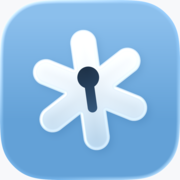
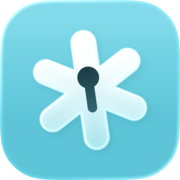
Glacier cyan brand and Apple silicon only.
Slinky moves from ice blue to glacier cyan so it holds its own spot next to
Harvous's blue in the Testament Made suite: icon fill #1ac8db, accent #0b7f8f
(white text about 4.7:1), backdrop, monograms, site mesh, icons and OG image.
Builds are now arm64 only; release.sh checks it and the cask requires arm64.

diff --git a/Slinky/Views/Components.swift b/Slinky/Views/Components.swift
@@ -4,15 +4,15 @@ import SwiftUI
 /// Provider initials on a soft tinted square. No brand logos, no network.
 /// A small Mac-app-icon tile for a service, project or account: a continuous squircle with a vibrant gradient,
 /// a soft top sheen, a hairline rim and a white letter. Colors come from a short curated palette that sits
-/// well next to Slinky's glacier blue. With no name yet, it shows Slinky's own asterisk on glacier blue.
+/// well next to Slinky's glacier cyan. With no name yet, it shows Slinky's own asterisk on glacier cyan.
 struct Monogram: View {
     var text: String
     var size: CGFloat = 30
 
     /// (top, bottom) gradient stops. Glacier first: it's Slinky's own color.
     private static let palette: [(Color, Color)] = [
-        (Color(red: 0.55, green: 0.80, blue: 0.96), Color(red: 0.18, green: 0.50, blue: 0.80)),   // glacier
-        (Color(red: 0.42, green: 0.88, blue: 0.86), Color(red: 0.05, green: 0.56, blue: 0.62)),   // teal
+        (Color(red: 0.50, green: 0.89, blue: 0.95), Color(red: 0.04, green: 0.56, blue: 0.66)),   // glacier cyan
+        (Color(red: 0.55, green: 0.76, blue: 0.98), Color(red: 0.16, green: 0.42, blue: 0.84)),   // sky
         (Color(red: 0.56, green: 0.92, blue: 0.66), Color(red: 0.12, green: 0.62, blue: 0.40)),   // mint
         (Color(red: 0.62, green: 0.66, blue: 1.00), Color(red: 0.30, green: 0.30, blue: 0.86)),   // indigo
         (Color(red: 0.80, green: 0.64, blue: 1.00), Color(red: 0.50, green: 0.28, blue: 0.86)),   // violet
@@ -168,22 +168,22 @@ struct KeyholeMark: View {
     var body: some View {
         ZStack {
             RoundedRectangle(cornerRadius: size * 0.225, style: .continuous)
-                .fill(LinearGradient(colors: [Color(red: 0.55, green: 0.80, blue: 0.95), Color(red: 0.20, green: 0.52, blue: 0.78)],
+                .fill(LinearGradient(colors: [Color(red: 0.52, green: 0.89, blue: 0.95), Color(red: 0.06, green: 0.62, blue: 0.72)],
                                      startPoint: .topLeading, endPoint: .bottomTrailing))
             // Only the asterisk turns. The keyhole always stays upright.
             AsteriskShape()
                 .stroke(Color.white, style: StrokeStyle(lineWidth: size * 0.146, lineCap: .round))
-                .shadow(color: Color(red: 0.05, green: 0.2, blue: 0.35).opacity(0.45), radius: size * 0.04, x: size * 0.012, y: size * 0.018)
+                .shadow(color: Color(red: 0.02, green: 0.22, blue: 0.27).opacity(0.45), radius: size * 0.04, x: size * 0.012, y: size * 0.018)
                 .padding(size * 0.21)
                 .rotationEffect(.degrees(-8 + spin))
             ZStack {
                 Capsule()
-                    .fill(LinearGradient(colors: [Color(red: 0.06, green: 0.16, blue: 0.27), Color(red: 0.14, green: 0.30, blue: 0.45)],
+                    .fill(LinearGradient(colors: [Color(red: 0.03, green: 0.16, blue: 0.19), Color(red: 0.07, green: 0.31, blue: 0.36)],
                                          startPoint: .top, endPoint: .bottom))
                     .frame(width: size * 0.053, height: size * 0.15)
                     .offset(y: size * 0.03)
                     .overlay(Circle()
-                        .fill(Color(red: 0.06, green: 0.16, blue: 0.27))
+                        .fill(Color(red: 0.03, green: 0.16, blue: 0.19))
                         .frame(width: size * 0.12)
                         .offset(y: -size * 0.07))
                     .scaleEffect(keyholeScale)

diff --git a/Slinky/Views/IceBackdrop.swift b/Slinky/Views/IceBackdrop.swift
@@ -1,7 +1,7 @@
 import AppKit
 import SwiftUI
 
-/// The Slinky ground: pale ice with a soft light from the upper left (smoky slate in dark mode).
+/// The Slinky ground: pale glacier ice with a soft light from the upper left (smoky slate in dark mode).
 /// Used behind full-window moments and the Library shelf, so glass has something to catch.
 struct IceBackdrop: View {
     @Environment(\.colorScheme) private var scheme
@@ -11,12 +11,12 @@ struct IceBackdrop: View {
         let dark = scheme == .dark
         ZStack {
             LinearGradient(
-                colors: dark ? [Color(red: 0.10, green: 0.13, blue: 0.16), Color(red: 0.03, green: 0.04, blue: 0.05)]
-                             : [Color(red: 0.97, green: 0.985, blue: 1.0), Color(red: 0.85, green: 0.91, blue: 0.955)],
+                colors: dark ? [Color(red: 0.09, green: 0.135, blue: 0.15), Color(red: 0.03, green: 0.045, blue: 0.05)]
+                             : [Color(red: 0.965, green: 0.99, blue: 0.995), Color(red: 0.84, green: 0.93, blue: 0.945)],
                 startPoint: .topLeading, endPoint: .bottomTrailing)
-            RadialGradient(colors: [dark ? Color(red: 0.36, green: 0.45, blue: 0.53).opacity(0.35) : .white.opacity(0.95), .clear],
+            RadialGradient(colors: [dark ? Color(red: 0.32, green: 0.47, blue: 0.51).opacity(0.35) : .white.opacity(0.95), .clear],
                            center: UnitPoint(x: 0.15, y: 0.05), startRadius: 0, endRadius: 520)
-            RadialGradient(colors: [Color(red: 0.53, green: 0.72, blue: 0.86).opacity(dark ? 0.16 : 0.35), .clear],
+            RadialGradient(colors: [Color(red: 0.45, green: 0.80, blue: 0.86).opacity(dark ? 0.16 : 0.35), .clear],
                            center: UnitPoint(x: 0.9, y: 1.0), startRadius: 0, endRadius: 560)
         }
         .opacity(intensity)
@@ -54,12 +54,12 @@ private struct BehindWindowBlur: NSViewRepresentable {
 extension ShapeStyle where Self == Color {
     static var paper: Color { Color(nsColor: NSColor(name: nil) { appearance in
         appearance.bestMatch(from: [.darkAqua, .aqua]) == .darkAqua
-            ? NSColor(red: 0.085, green: 0.095, blue: 0.11, alpha: 1)
-            : NSColor(red: 0.985, green: 0.99, blue: 1.0, alpha: 1)
+            ? NSColor(red: 0.08, green: 0.098, blue: 0.105, alpha: 1)
+            : NSColor(red: 0.983, green: 0.993, blue: 0.997, alpha: 1)
     }) }
 
-    /// Text on an accent-colored highlight. White in both modes: the accent (#4a7aa3, light and dark)
-    /// is deep enough for it, about 4.6:1. The old pale dark-mode accent wasn't.
+    /// Text on an accent-colored highlight. White in both modes: the accent (#0b7f8f glacier cyan, light and
+    /// dark) is deep enough for it, about 4.7:1. The old pale dark-mode accent wasn't.
     static var onAccent: Color { .white }
 
 }

diff --git a/site/src/styles/tokens.css b/site/src/styles/tokens.css
@@ -24,14 +24,14 @@
 
   /* Slinky's mesh (the "desktop wallpaper"). Five points, same format as the testamentmade app cards. */
   /* Mostly ice white, with hints of glacier blue. No purple: Slinky is ice. */
-  --c1: #8fc5ee;   /* glacier, softened */
-  --c2: #f7fbff;   /* ice, nearly white */
-  --c3: #b4dcf6;   /* sky */
-  --c4: #e3f1fc;   /* frost */
-  --c5: #eef7fe;   /* pale ice */
-  --brand: #4a7aa3; /* the app's accent: carries white text at about 4.6:1 */
-  --brand-ink: #1f5f93;
-  --glow: rgb(30 100 170 / 0.45);
+  --c1: #7fdbe8;   /* glacier cyan, softened */
+  --c2: #f6fdfe;   /* ice, nearly white */
+  --c3: #a8ebf2;   /* meltwater */
+  --c4: #def6f9;   /* frost */
+  --c5: #ecfafc;   /* pale ice */
+  --brand: #0b7f8f; /* the app's accent, glacier cyan: carries white text at about 4.7:1 */
+  --brand-ink: #0a6b78;
+  --glow: rgb(10 150 170 / 0.45);
 
   /* Inside the recreated app: Slinky's paper under values, and Tahoe-ish greys. */
   --app-paper: #fbfcfe;
@@ -53,13 +53,13 @@
     --shadow-lift: 0 2px 4px rgb(0 0 0 / 0.3), 0 18px 40px -18px rgb(0 0 0 / 0.7);
     color-scheme: dark;
 
-    --c1: #1d5a8f;
-    --c2: #0a1622;
-    --c3: #23608f;
-    --c4: #0f2333;
-    --c5: #0d1d2c;
-    --brand-ink: #9fd0f2;
-    --glow: rgb(20 90 160 / 0.55);
+    --c1: #0f6b78;
+    --c2: #071a1e;
+    --c3: #127480;
+    --c4: #0c262b;
+    --c5: #0b1f24;
+    --brand-ink: #8ee3ec;
+    --glow: rgb(10 140 160 / 0.55);
 
     --app-paper: #16171a;
     --app-text: #f5f5f7;

diff --git a/site/src/styles/site.css b/site/src/styles/site.css
@@ -59,7 +59,7 @@ p { margin: 0; text-wrap: pretty; }
 
 /* ---------- Desktops: little Mac screens where the mesh wallpaper lives ---------- */
 .desktop {
-  --menubar-hole: #eaf4fc;
+  --menubar-hole: #e6f7f9;
   position: relative; border-radius: 14px; overflow: hidden; isolation: isolate;
   box-shadow: 0 0 0 1px var(--hair), var(--shadow);
   background: var(--c5);
@@ -104,7 +104,7 @@ p { margin: 0; text-wrap: pretty; }
 }
 .desktop__stage { position: relative; display: grid; place-items: center; padding: 44px 36px 48px; }
 @media (max-width: 640px) { .desktop__stage { padding: 28px 14px 32px; } }
-@media (prefers-color-scheme: dark) { .desktop { --menubar-hole: #0d1d2c; } }
+@media (prefers-color-scheme: dark) { .desktop { --menubar-hole: #0b1f24; } }
 
 /* Plain family cards for everything that isn't on a desktop */
 .card-plain { background: var(--card); box-shadow: 0 0 0 1px var(--hair), var(--shadow); border-radius: 22px; }
@@ -121,7 +121,7 @@ p { margin: 0; text-wrap: pretty; }
 .dock.is-tracking .dock__app { transition: none; }
 .dock__app img {
   width: 54px; height: 54px; border-radius: 23%; transform-origin: 50% 100%;
-  box-shadow: 0 6px 14px -6px rgb(10 40 80 / 0.4);
+  box-shadow: 0 6px 14px -6px rgb(5 50 60 / 0.4);
   scale: var(--mag, 1); translate: 0 calc((var(--mag, 1) - 1) * -10px);
   transition: scale 0.12s linear, translate 0.12s linear;
 }

diff --git a/Casks/slinky.rb b/Casks/slinky.rb
@@ -7,6 +7,7 @@ cask "slinky" do
   desc "Keeps secrets out of files: API keys, .env variables and recovery codes"
   homepage "https://slinkyfiles.com"
 
+  depends_on arch: :arm64
   depends_on macos: :tahoe
 
   app "Slinky.app"

diff --git a/docs/DESIGN.md b/docs/DESIGN.md
@@ -6,7 +6,7 @@ Read this before any design work. Every visual decision should trace back to som
 1. **Intentional and tasteful over busy.** Each screen has one job and one primary action. When in doubt, remove.
 2. **Native Tahoe first.** Use system components (`NavigationSplitView`, inspector, toolbar, sheets, glass buttons) before inventing. Custom only where Slinky has something to say: the `.env` view, recovery-code chips, Quick Access, approval cards.
 3. **Glass on chrome, paper under values.** Liquid Glass belongs to sidebars, toolbars, floating panels, menu bar cards and toasts. Secret values always sit on opaque cool paper (`Color.paper`), in monospace, at 4.5:1 contrast or better. Never glass on glass.
-4. **Ice, not blue.** The brand is clear, glassy and white, with glacier/ice blue. Accent `#4a7aa3` in both light and dark mode (Derek, 2026-10-17), used once per view on the primary action. It's deep enough for white text (about 4.6:1), which macOS uses on sidebar selections, menus and prominent buttons. The old pale dark accent (`#a9c7dc`) failed that (Derek, 2026-10-17); ice stays in the icon, backdrop and tints. No saturated blue in UI chrome.
+4. **Glacier cyan.** The brand is clear, glassy and white, with glacier cyan (Derek, 2026-10-17). It replaced ice blue, which sat on the same hue as Harvous; the Testament Made suite already had blue (Harvous), indigo (Dinky), pink (Binky), amber (ReviseMy) and green (Koati), and cyan was the open spot that still says ice. Accent `#0b7f8f` in both light and dark mode, used once per view on the primary action. It's deep enough for white text (about 4.7:1), which macOS uses on sidebar selections, menus and prominent buttons. Cyan stays in the icon, backdrop and tints. No saturated color in UI chrome.
 5. **The family way of teaching.** Like Dinky and Binky, there's **no welcome screen and no wizard**. The app opens into itself. Empty states teach by doing ("No items yet. Add your first item with ⌘N."), and setup happens in context (the vault is created on the first save, and the Recovery Key appears right then as a sheet).
 6. **Calm motion.** Springs, not bounces for their own sake. Motion explains a change (things slink in and out). Everything honors Reduce Motion.
 7. **Plain, serious copy.** See `VOICE.md`. Clear and kind for everyone, non-technical first, no clever labels or wordplay in the app, no exclamation points, no fear.
@@ -35,10 +35,10 @@ Read this before any design work. Every visual decision should trace back to som
 | **macapp.supply: Trailback** | Clean white app UI; stacked declarative headlines ("Find it. Sort it. Tidy it.") | Site headline style |
 | **macapp.supply: Glance** | Minimal chrome, typography forward | Restraint in general |
 | **macapp.supply: Unwind** | "A reason for every suggestion" | Health view (v1.x) |
-| **Helium browser icon** (caution) | A white asterisk on deep blue. Ours must stay distinct: glacier blue (not indigo), tilt, keyhole. | App icon |
+| **Helium browser icon** (caution) | A white asterisk on deep blue. Ours must stay distinct: glacier cyan (not deep blue), tilt, keyhole. | App icon |
 
 ## Decisions already made
-- **Icon:** a glass asterisk with a rounded keyhole (K2, enlarged) on glacier blue. Real Liquid Glass via `Slinky/AppIcon.icon` (asterisk layer with glass on, keyhole layer on top, automatic gradient `#4DA3DC`). Sources and generators in `design/icon/`.
+- **Icon:** a glass asterisk with a rounded keyhole (K2, enlarged) on glacier cyan. Real Liquid Glass via `Slinky/AppIcon.icon` (asterisk layer with glass on, keyhole layer on top, automatic gradient `#1ac8db`; keyhole `#072a31`→`#11505b`). Was glacier blue `#4DA3DC` in 1.0.0. Sources and generators in `design/icon/`.
 - **Window:** transparent title bar, toolbar background hidden, no opaque title strip. The window itself is glass (`WindowGlass`, 2026-10-17): the desktop shows through, blurred, under a light ice tint. Screens don't paint their own backgrounds over it. Values still sit on opaque paper: the project `.env` is a paper sheet floating on the glass. The lock curtain stays opaque, so nothing shows through while it covers secrets. Reduce Transparency makes the glass solid (macOS does this).
 - **Sidebar toggle:** our own button in the content's part of the toolbar (`.navigation`), like Dinky, with the built-in one removed (`.toolbar(removing: .sidebarToggle)`). The built-in toggle sits in the sidebar's part of the toolbar, which is too narrow for it mid-animation, so macOS flashed the overflow » next to the lock switch. View › Show/Hide Sidebar (⌃⌘S) still works.
 - **Toolbar:** one control, the lock switch, pinned to the right end of the title bar as an `NSTitlebarAccessoryViewController` (`LockSwitchAccessory`), not a toolbar item, so it never slides into the overflow (») menu while the sidebar animates. It carries its own glass capsule. The switch is a small two-position switch (open lock | closed lock) whose knob sits on the current state. It's always there, on the lock screen too. Before anything is saved it sits on unlocked, and clicking it says "Slinky can lock once you've saved your first item."
@@ -55,7 +55,7 @@ Read this before any design work. Every visual decision should trace back to som
 - **Empty states:** `VaultIdleAnimation`, Slinky's sibling to Dinky's IdleAnimation. A secret rises from the bottom edge, its characters turn into dots, it slides into the icon, the keyhole closes, the asterisk turns, and the keyhole returns with a draw-on checkmark. It plays four examples, one of everything Slinky saves (an API key, a project variable where only the value after `=` is hidden, recovery codes, a recovery key), and ends, like Dinky, on a resting collection: the same glass pills, level, in a loose hand-placed scatter around the icon (not a grid or rows). Hover replays it; Reduce Motion shows only the resting collection. The keyhole never rotates: only the asterisk turns (60°, so it lands identical). Below it: a title, one line, one button. Nothing more.
 - **SF Symbol animations: only where something changes state.** `.replace` for swaps (Copy → checkmark, lock ↔ unlock), `.drawOn` for completion (the saved checkmark, a used code), `.pulse` while waiting for Touch ID. No bounces or wiggles on selection, detection, warnings or toasts: Derek found them too much (2026-10-16).
 - **Filled SF Symbols everywhere** (Derek, 2026-10-17): `.symbolVariant(.fill)` is set once at each root (main window, Settings, Help, menu bar, Quick Access), so every symbol uses its filled variant where one exists. Write the plain name in code; the root fills it.
-- **Monograms look like little Mac app icons:** a continuous squircle, a vibrant top-to-bottom gradient from a curated palette (glacier, teal, mint, indigo, violet, pink, coral, amber), a soft top sheen, a hairline rim and white initials. With no name yet, Slinky's asterisk on glacier. Examples in the app use "Slinky" as the project name.
+- **Monograms look like little Mac app icons:** a continuous squircle, a vibrant top-to-bottom gradient from a curated palette (glacier cyan, sky, mint, indigo, violet, pink, coral, amber), a soft top sheen, a hairline rim and white initials. With no name yet, Slinky's asterisk on glacier cyan. Examples in the app use "Slinky" as the project name.
 - **Success is green.** Checkmarks that confirm something worked (saved, copied, stored) use system green. The ice-blue accent stays for actions and selection. Toasts have three looks: success (green checkmark), information (gray info icon) and removed (gray trash icon, with Undo). Toasts center over the content column, not the whole window.
 - **Add Item** (`AddItemView.swift`, 2026-10-17): a floating glass panel (720 wide) over a soft dim, with a frosted layer behind it (`PanelBackdrop`), not a sheet. Never blur the window itself: it makes the layout jump under the toolbar. Raycast's one-field model, Apple Passwords' hide-by-default, and the empty-state pill motion.
   - Empty: one large field on paper ("Paste a key, recovery codes or .env lines", ⌘V keycap), plus "Or choose what you're adding": four equal tiles, each an icon, a name and one short description (two lines of text on purpose, never an accidental wrap), for typing something Slinky can't recognize.
@@ -82,7 +82,7 @@ Read this before any design work. Every visual decision should trace back to som
 ## Website (slinkyfiles.com, `site/`)
 - Astro on Cloudflare Pages, like heyderekj.com and testamentmade.com. Family type and motion: Figtree, paper/ink tokens, `--ease`, squircles.
 - **Desktops:** the page is the family's plain paper. The mesh wallpaper only lives inside rounded "Mac desktop" frames (`Desktop.astro`, with a menu bar: Slinky File Edit View Window Help, the Slinky menu bar icon and a clock), and the recreated app sits on them, like the app cards on testamentmade.com. Everything else (tiles, table, FAQ) is a plain family card.
-- **Wallpaper:** a CSS mesh (the testamentmade card recipe) inside each desktop. Mostly ice white with hints of glacier blue; never purple (Derek, 2026-10-17). Dark mode is deep glacier navy.
+- **Wallpaper:** a CSS mesh (the testamentmade card recipe) inside each desktop. Mostly ice white with hints of glacier cyan; never purple (Derek, 2026-10-17). Dark mode is deep glacier teal.
 - **Glass, the Tahoe way:** windows and sidebars are frosted material (blur 26 px, saturation 1.9, a light fill) with a 1 px specular rim that's brightest at the top left. Only small controls (the lock switch) are clear glass that bends at the rim, using Jhey Tompkins' SVG filter (codepen jh3y/EajLxJV, MIT) in Chromium; a lens that strong on a large surface pulls in pixels from outside the page. The wallpaper is a CSS mesh inside each desktop. Corners: desktops 14 px, windows 16 px. Only the hero desktop has the Mac menu bar. Things that float over page content (nav, Dock, toasts) use CSS blur (`.float-glass`).
 - **Navigation:** the site's own links in a glass capsule nav at the top. Along the bottom, a family Dock that behaves like the macOS Dock: Dinky, Binky and Slinky's icons on a glass shelf, a dot under the current app, magnification that follows the pointer's distance and pushes neighbours apart, the app's name alone in a small label above, and a launch bounce on click. Dinky and Binky use the same Dock.
 - **No screenshots:** the app is rebuilt in HTML with small demos (Add Item, a project's .env, recovery codes, Quick Access, the lock).

diff --git a/docs/plan.md b/docs/plan.md
@@ -59,7 +59,7 @@ Slinky should be the pleasant, HIG-native fix: a real Mac app, plus a `slinky` C
   - Stats line: "38 keys · 6 projects · 0 lying around"
 - **Avoid:** "military-grade", AES jargon in the UI (keep it on the How-it-works page), "credentials", "workflow".
 - **Icon:** the family recipe (a saturated gradient with a chunky white sticker object, heavy black outline, slight tilt). Here it's a coiled spring with one coil threaded through a key ring.
-  - **Brand (updated 2026-10-16): clear, glassy, white, clean, sleek.** The family reads blue · pink · clear. The icon (picked 2026-10-16) is one big frosted-glass asterisk with a rounded keyhole (K2, enlarged) recessed through its center. It is lit from the upper left with a crisp rim, a tight inner shadow and a soft drop shadow, on a pale ice-blue gradient. Dark mode is smoky slate on cold near-black. Sources: `design/icon/slinky-icon-keyhole-light.svg` and `-dark.svg`, generated by `design/icon/directions/make_final.py`. In Icon Composer: background layer, asterisk layer (glass on), keyhole layer. Sources: `design/icon/slinky-icon-ice-light.svg` and `-dark.svg`. The accent is a quiet ice blue (#4a7aa3 light, #a9c7dc dark). Avoid saturated blue. Emerald is retired.
+  - **Brand (updated 2026-10-16): clear, glassy, white, clean, sleek.** The family reads blue · pink · clear. The icon (picked 2026-10-16) is one big frosted-glass asterisk with a rounded keyhole (K2, enlarged) recessed through its center. It is lit from the upper left with a crisp rim, a tight inner shadow and a soft drop shadow, on a pale ice-blue gradient. Dark mode is smoky slate on cold near-black. Sources: `design/icon/slinky-icon-keyhole-light.svg` and `-dark.svg`, generated by `design/icon/directions/make_final.py`. In Icon Composer: background layer, asterisk layer (glass on), keyhole layer. Sources: `design/icon/slinky-icon-ice-light.svg` and `-dark.svg`. The accent is a quiet ice blue (#4a7aa3 light, #a9c7dc dark). Avoid saturated blue. **Superseded 2026-10-17: glacier cyan, see `docs/DESIGN.md`.** Emerald is retired.
   - Built in Icon Composer with default, dark, clear and tinted variants.
   - Keep it clearly a key coil, not the toy's trade dress. "Slinky" is a class 28 toy trademark and software is class 9: low risk, same situation as Binky, not legal advice.
 

diff --git a/CLAUDE.md b/CLAUDE.md
@@ -31,7 +31,8 @@
 - `spike/` — the throwaway feasibility test. Don't build on it.
 
 ## Design
-- Brand: clear, glassy, white, glacier/ice blue. Accent `#4a7aa3` in light and dark mode (it carries white text). Glass on chrome (sidebars, toolbars, panels, cards that float); values on opaque cool "paper" (`Color.paper`).
+- Brand: clear, glassy, white, **glacier cyan** (changed from ice blue on 2026-10-17 so Slinky holds its own spot next to Harvous's blue in the Testament Made suite). Accent `#0b7f8f` in light and dark mode (it carries white text). Icon fill `#1ac8db`.
+- Apple silicon only (arm64). Set at the project level and checked by `release.sh`. Glass on chrome (sidebars, toolbars, panels, cards that float); values on opaque cool "paper" (`Color.paper`).
 - Layouts from `docs/slinky-layouts.html`: A (.env project view), B (Library shelf), C (Quick Access ⌥⌘K), D (agent receipts, later), F (menu bar stack).
 - Voice: see `VOICE.md`. Plain, serious, non-technical, for everyone. No clever labels in the app.
 - **Design: read `docs/DESIGN.md` before any UI work.** It holds the principles, every reference and what we took from it, and decisions already made. No welcome screens or wizards (family rule).

diff --git a/site/public/homepage.md b/site/public/homepage.md
@@ -2,7 +2,7 @@
 
 A free Mac app for API keys, .env variables and recovery codes. Encrypted on your Mac, opened with Touch ID.
 
-[Download for Mac](https://github.com/heyderekj/slinky/releases/latest) · [GitHub](https://github.com/heyderekj/slinky) · macOS 26 Tahoe or later · Apple silicon and Intel
+[Download for Mac](https://github.com/heyderekj/slinky/releases/latest) · [GitHub](https://github.com/heyderekj/slinky) · macOS 26 Tahoe or later · Apple silicon
 
 ## Everything you're told to "store somewhere safe"
 

diff --git a/README.md b/README.md
@@ -26,7 +26,7 @@ Slinky doesn't store passwords (that's Apple Passwords) or crypto wallet recover
 
 ## Install
 
-**Requires macOS 26 (Tahoe) or later.**
+**Requires a Mac with Apple silicon and macOS 26 (Tahoe) or later.**
 
 Download the latest DMG from [Releases](https://github.com/heyderekj/slinky/releases/latest), drag Slinky to Applications and open it.
 
